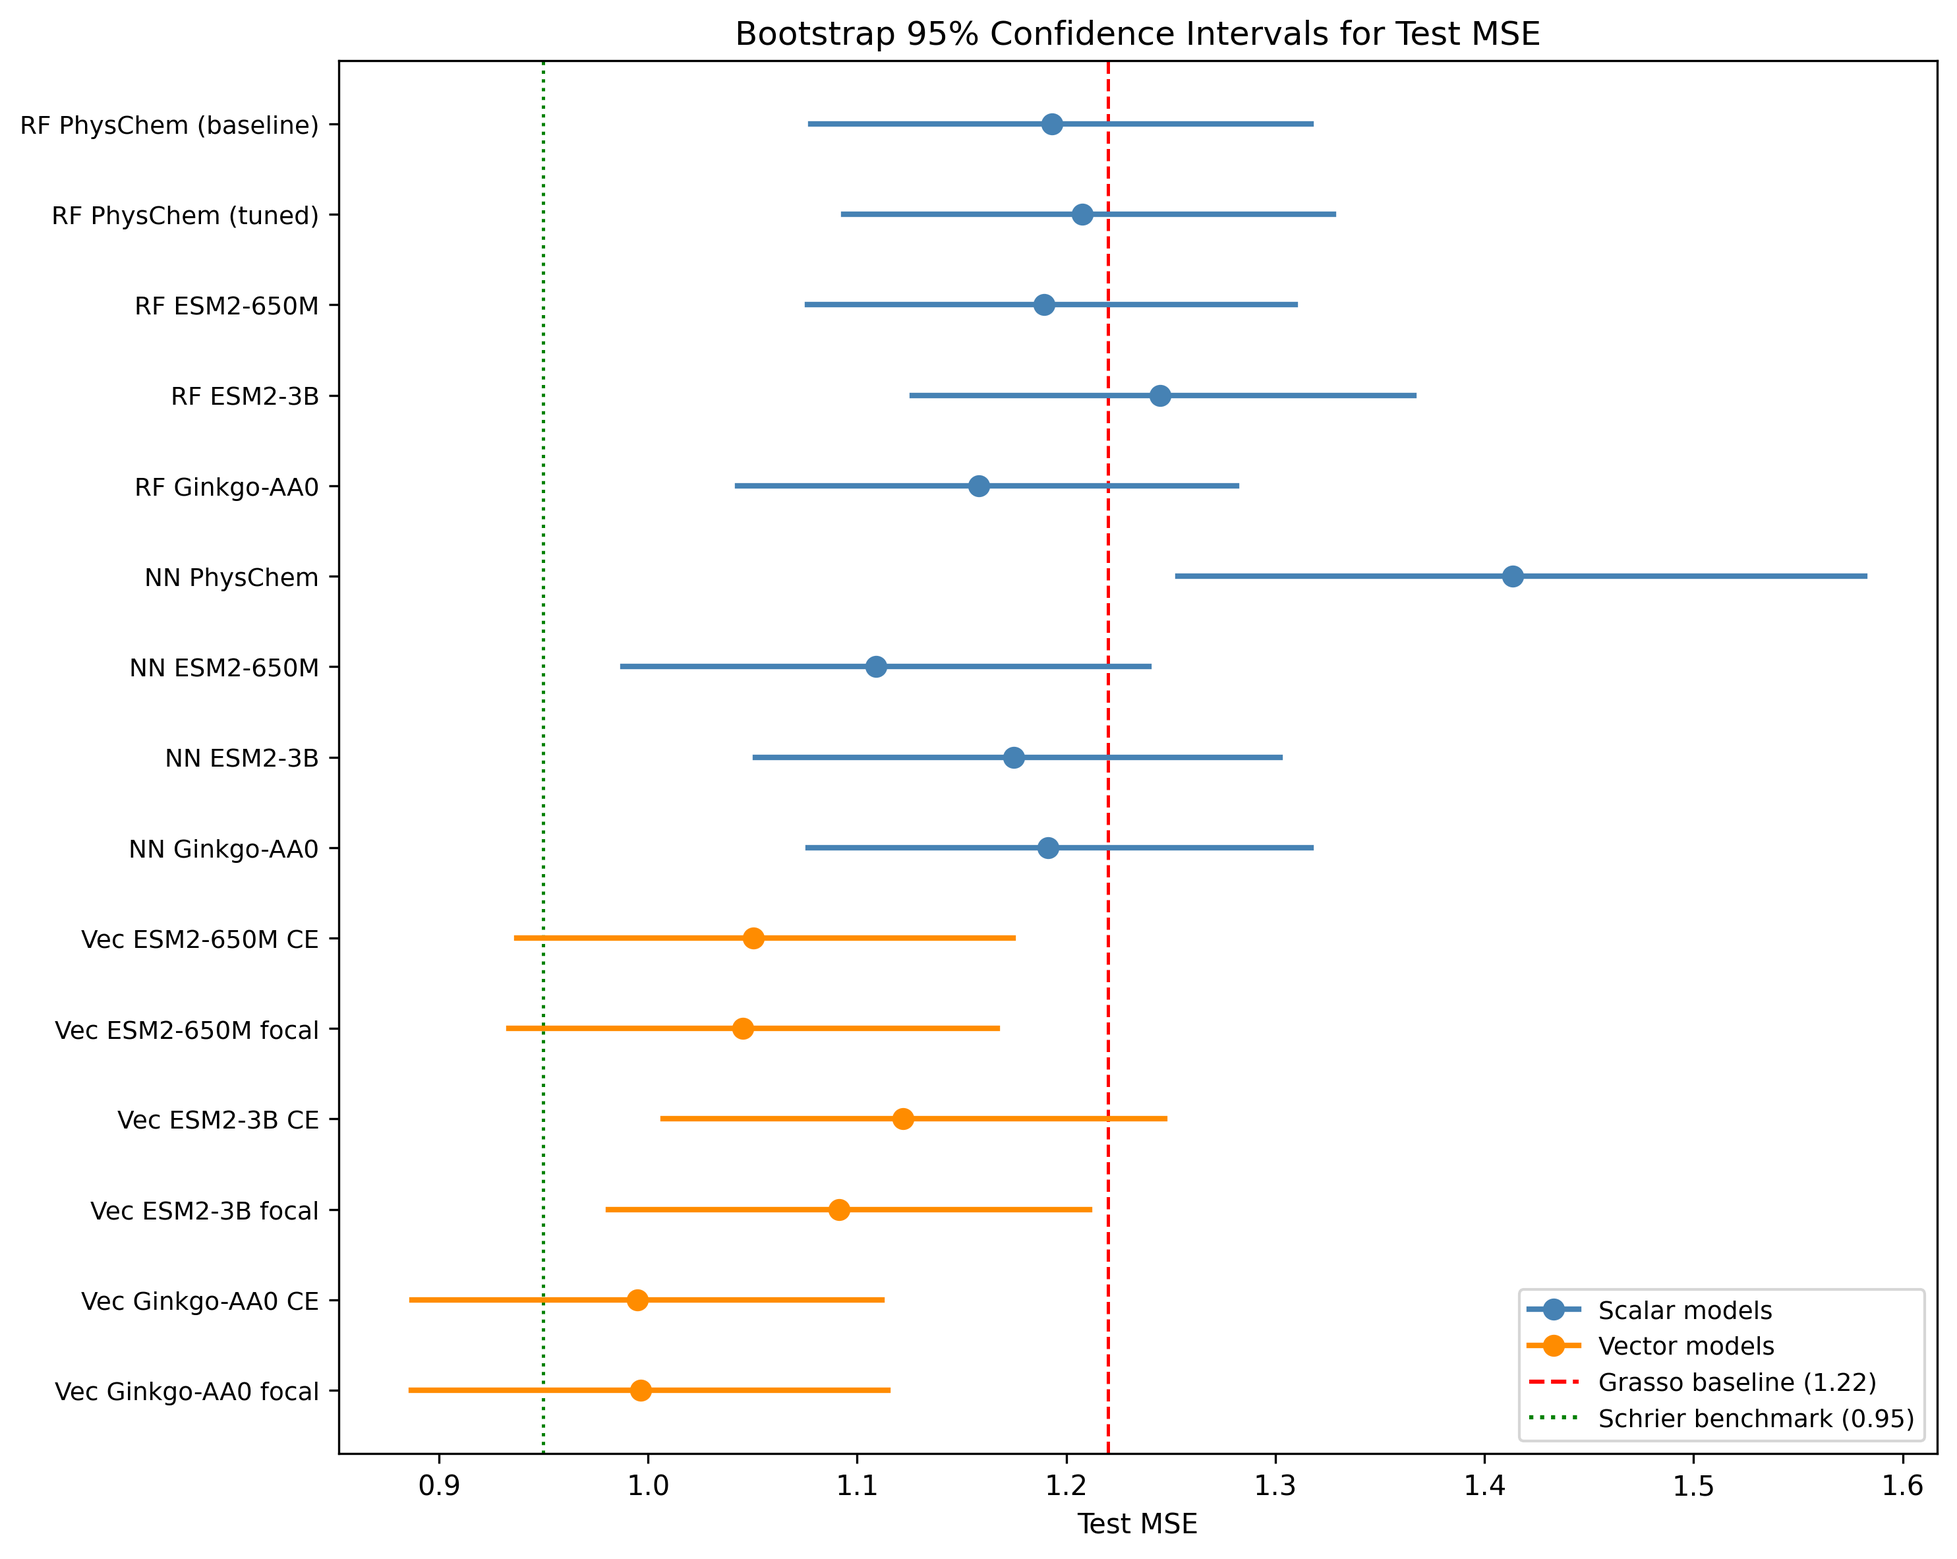
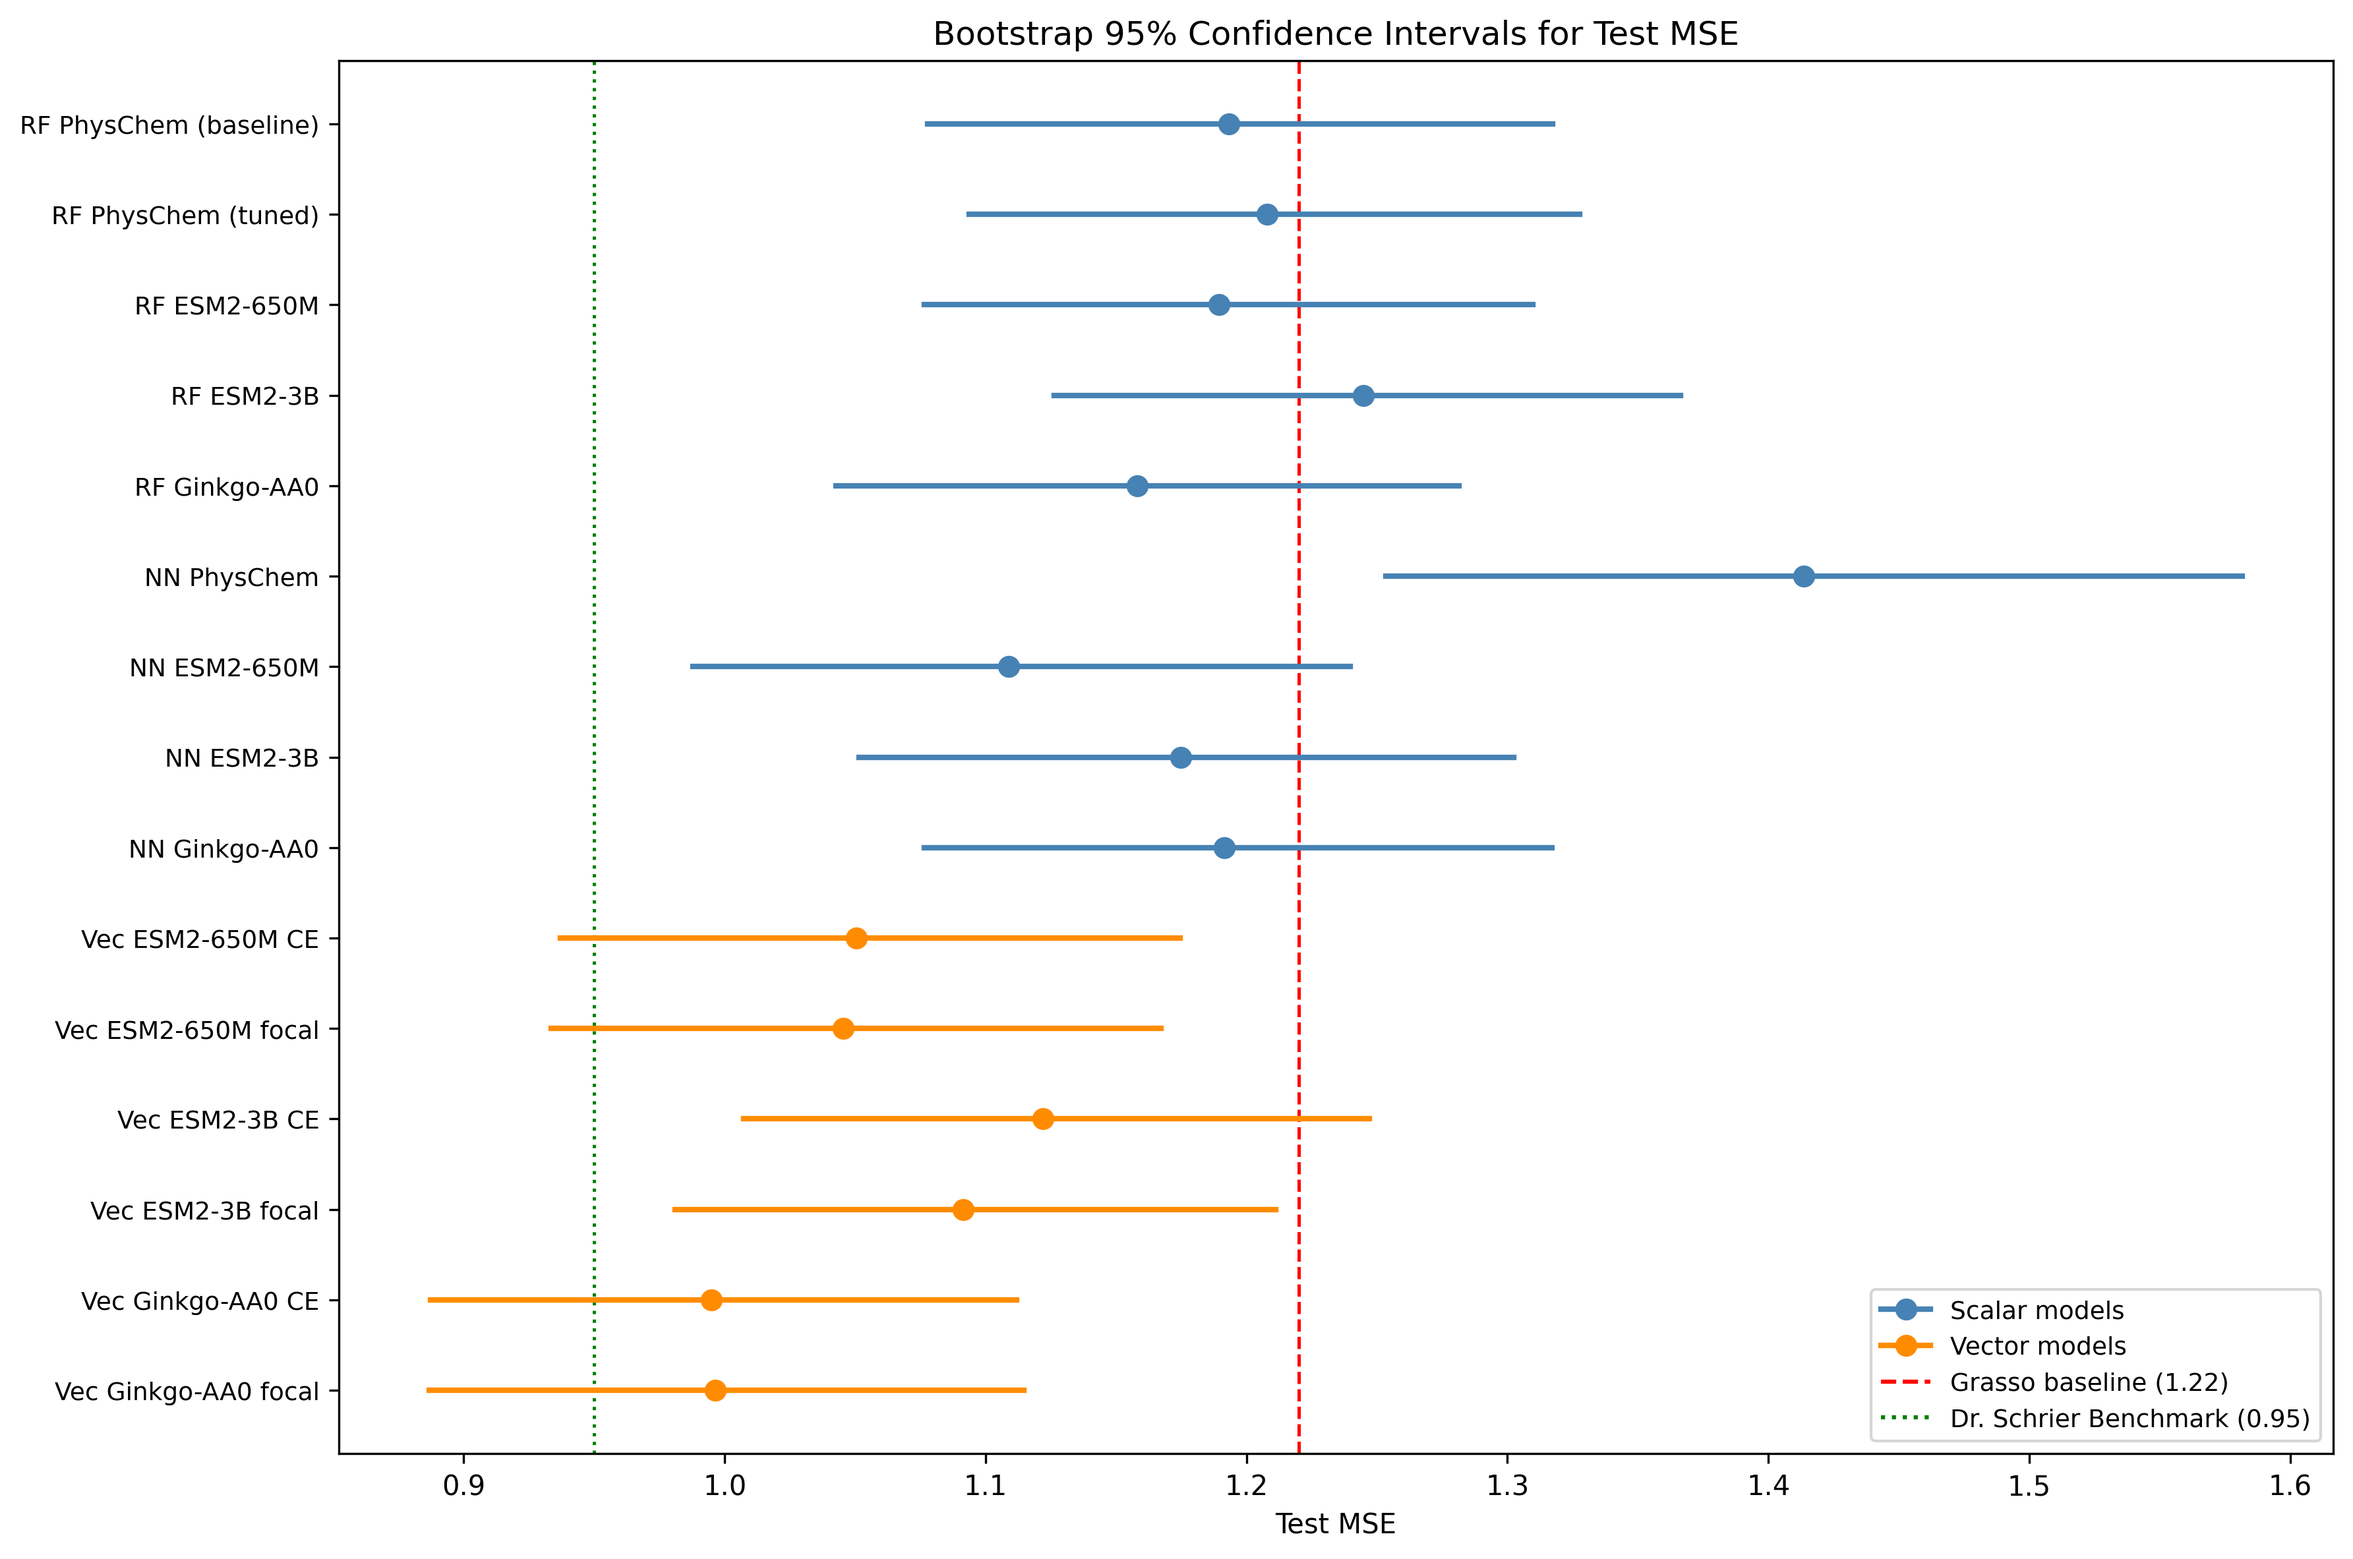
Fix figure labels: Dr. Schrier, professional titles

diff --git a/scripts/10_vector_ensemble_optimization.py b/scripts/10_vector_ensemble_optimization.py
@@ -426,7 +426,7 @@ def main():
     print(f"\n{'='*60}")
     print(f"  FINAL SUMMARY  ({total_min:.1f} min)")
     print(f"{'='*60}")
-    print(f"  Schrier benchmark:     {SCHRIER_MSE}")
+    print(f"  Dr. Schrier benchmark: {SCHRIER_MSE}")
     print(f"  Script 09 best:        {SCRIPT09_BEST}")
     print(f"  This script best:      {best_mse:.4f}  ({best_name})")
 
@@ -436,7 +436,7 @@ def main():
         print(f"\n  *** BEAT SCHRIER by {gap:.4f} ({pct:.1f}%)! ***")
     else:
         gap = best_mse - SCHRIER_MSE
-        print(f"\n  Gap to Schrier: +{gap:.4f}")
+        print(f"\n  Gap to Dr. Schrier: +{gap:.4f}")
 
     improvement = SCRIPT09_BEST - best_mse
     print(f"  Improvement over Script 09: {improvement:.4f}")
@@ -489,14 +489,14 @@ def _make_figure(results):
     bars = ax.bar(x, mses, color=colors, alpha=0.85)
 
     ax.axhline(y=SCHRIER_MSE, color='green', linestyle=':', linewidth=2,
-               label=f'Schrier ({SCHRIER_MSE})')
+               label=f'Dr. Schrier ({SCHRIER_MSE})')
     ax.axhline(y=SCRIPT09_BEST, color='gray', linestyle='--', linewidth=1.2,
                label=f'Script 09 best ({SCRIPT09_BEST})')
 
     ax.set_xticks(x)
     ax.set_xticklabels(labels, rotation=45, ha='right', fontsize=7)
     ax.set_ylabel('Test MSE (all 1326 samples)')
-    ax.set_title("Script 10: Closing the Gap to Schrier's 0.953")
+    ax.set_title('Vector Ensemble Optimization: Dropout and Architecture Tuning')
     ax.legend(loc='upper right')
 
     for bar in bars:

diff --git a/scripts/09_vector_architecture_search.py b/scripts/09_vector_architecture_search.py
@@ -597,7 +597,7 @@ def main():
     print(f"\n{'='*60}")
     print(f"  FINAL SUMMARY  ({total_min:.1f} min)")
     print(f"{'='*60}")
-    print(f"  Schrier benchmark:       {SCHRIER_MSE}")
+    print(f"  Dr. Schrier benchmark:   {SCHRIER_MSE}")
     print(f"  Our Script 06 best:      1.001  (val split, 1273 test)")
     print(f"  Phase 1 best single:     {phase1[best_p1]['mse']:.4f}  ({best_p1})")
     print(f"  Phase 2 (5-seed):        {mse_5:.4f}")
@@ -612,7 +612,7 @@ def main():
         print(f"\n  *** BEAT SCHRIER by {gap:.4f} ({pct:.1f}%)! ***")
     else:
         gap = overall_best_mse - SCHRIER_MSE
-        print(f"\n  Gap to Schrier: +{gap:.4f}")
+        print(f"\n  Gap to Dr. Schrier: +{gap:.4f}")
 
     save_results(all_results)
 
@@ -663,14 +663,14 @@ def _make_figure(all_results, p1, p3, p4):
 
     # Reference lines
     ax.axhline(y=SCHRIER_MSE, color='green', linestyle=':', linewidth=2,
-               label=f'Schrier ({SCHRIER_MSE})')
+               label=f'Dr. Schrier ({SCHRIER_MSE})')
     ax.axhline(y=1.001, color='gray', linestyle='--', linewidth=1.2,
                label='Script 06 best (1.001)')
 
     ax.set_xticks(x)
     ax.set_xticklabels(labels, rotation=45, ha='right', fontsize=8)
     ax.set_ylabel('Test MSE (all 1326 samples)')
-    ax.set_title("Script 09: Beating Schrier's 0.95 Benchmark")
+    ax.set_title('Vector Architecture Search: Full-Data Training Results')
     ax.legend(loc='upper right')
 
     for bar in bars:

diff --git a/scripts/08_bootstrap_ci.py b/scripts/08_bootstrap_ci.py
@@ -325,7 +325,7 @@ def make_forest_plot(results, model_order):
     ax.axvline(x=1.22, color='red', linestyle='--', linewidth=1.2,
                label='Grasso baseline (1.22)', zorder=0)
     ax.axvline(x=0.95, color='green', linestyle=':', linewidth=1.2,
-               label='Schrier benchmark (0.95)', zorder=0)
+               label='Dr. Schrier Benchmark (0.95)', zorder=0)
 
     ax.set_yticks(y_pos)
     ax.set_yticklabels(labels, fontsize=9)
@@ -341,7 +341,7 @@ def make_forest_plot(results, model_order):
         Line2D([0], [0], marker='o', color='darkorange', label='Vector models',
                markersize=7, linewidth=2),
         Line2D([0], [0], color='red', linestyle='--', label='Grasso baseline (1.22)'),
-        Line2D([0], [0], color='green', linestyle=':', label='Schrier benchmark (0.95)'),
+        Line2D([0], [0], color='green', linestyle=':', label='Dr. Schrier Benchmark (0.95)'),
     ]
     ax.legend(handles=legend_elements, loc='lower right', fontsize=9)
 

diff --git a/scripts/06_vector_regression.py b/scripts/06_vector_regression.py
@@ -248,7 +248,7 @@ def main():
         print(f"  {key:<30} {m['mse']:>10.4f} {m['r2']:>8.4f} "
               f"{m['spearman_rho']:>10.4f} {r['elapsed_seconds']:>7.1f}s")
 
-    print(f"\n  Schrier benchmark: MSE = 0.95")
+    print(f"\n  Dr. Schrier benchmark: MSE = 0.95")
     print(f"  Script 03 best (NN Ginkgo-AA0): MSE = 1.0497")
 
     # ── 4. Figure ──────────────────────────────────────────────────────────
@@ -288,7 +288,7 @@ def _make_figure(results):
 
     # Reference lines
     ax.axhline(y=1.0497, color='gray', linewidth=1.2, linestyle='--', label='NN Regression Best (1.05)')
-    ax.axhline(y=0.95, color='green', linewidth=1.2, linestyle=':', label='Schrier Benchmark (0.95)')
+    ax.axhline(y=0.95, color='green', linewidth=1.2, linestyle=':', label='Dr. Schrier Benchmark (0.95)')
 
     # Labels
     ax.set_ylabel('Test MSE')
